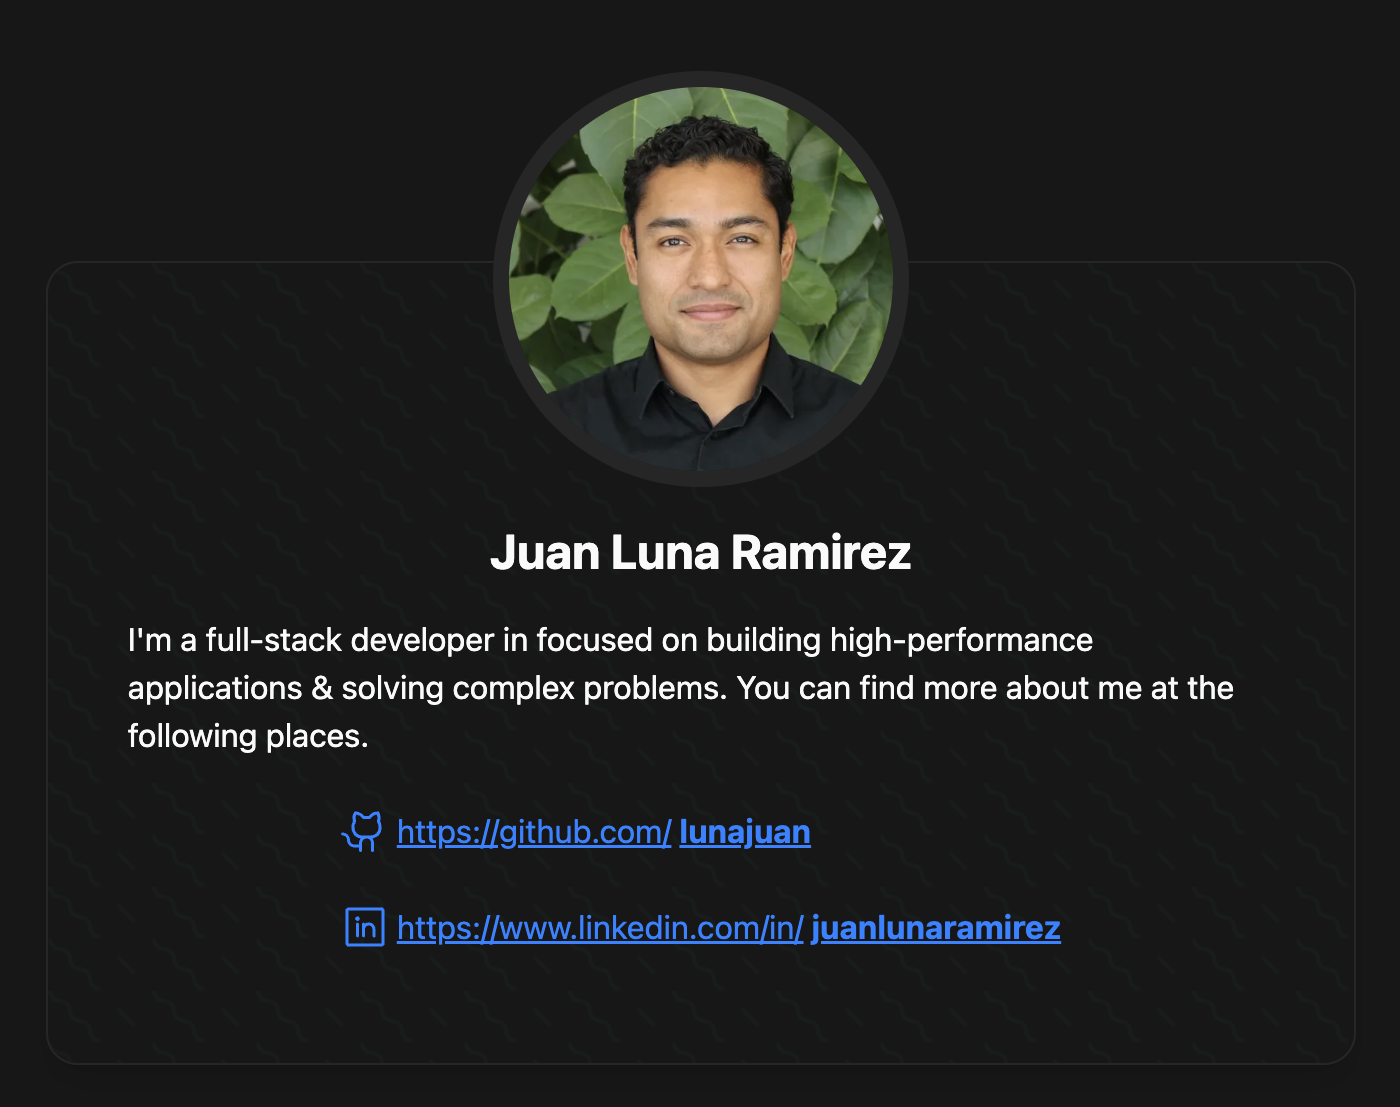
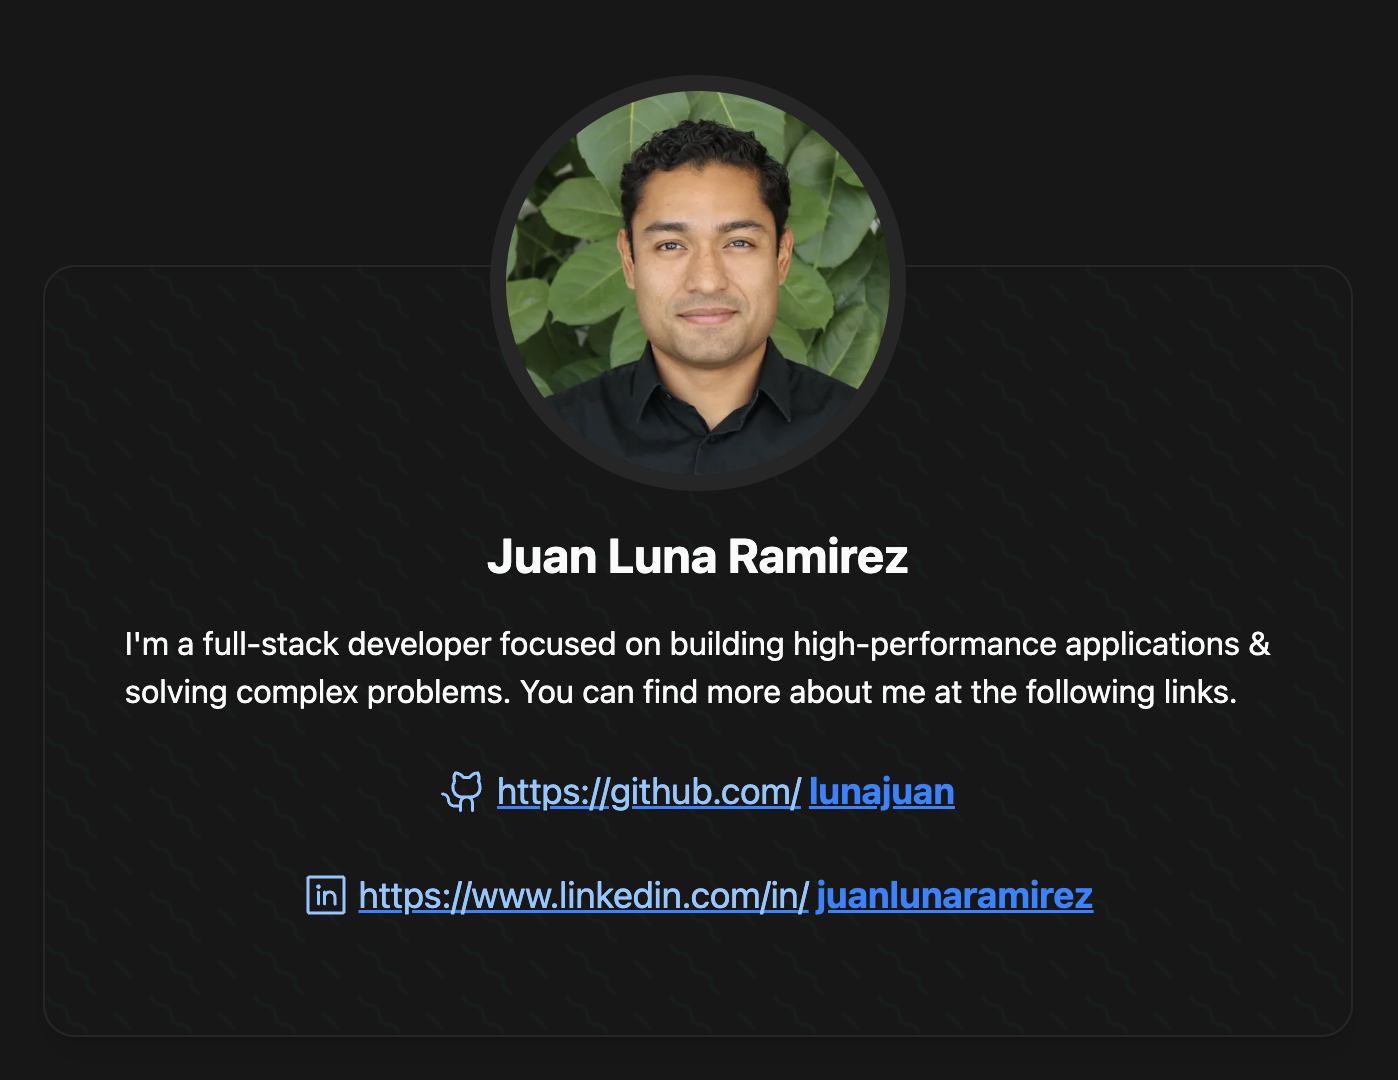
fix(og): fix description text and style theme switcher (#13)
* fix typos

* update image meta

* remove link text on meta description.

* add additional og tags

* style theme switcher

diff --git a/src/components/ThemeSwitch.tsx b/src/components/ThemeSwitch.tsx
@@ -2,6 +2,8 @@ import { useLocalStorage, useMediaQuery } from "usehooks-ts"
 import { type HTMLDivProps } from "../types/html.types"
 import { DARK_MODE_LOCAL_STORAGE_KEY, COLOR_SCHEME_QUERY } from "../constants"
 import { useEffect } from "react"
+import SunDimIcon from "../assets/icons/SunDimIcon"
+import MoonIcon from "../assets/icons/MoonIcon"
 
 type Props = HTMLDivProps
 export default function ThemeSwitch({ ...props }: Props) {
@@ -11,9 +13,18 @@ export default function ThemeSwitch({ ...props }: Props) {
     document.documentElement.classList.toggle("dark", isDarkMode)
   }, [isDarkMode])
 
+  const Icon = isDarkMode ? SunDimIcon : MoonIcon
+  const text = isDarkMode ? "light mode" : "dark mode"
+
   return (
     <div {...props}>
-      <button onClick={toggle} className="block p-4">{isDarkMode ? "Light" : "Dark"}</button>
+      <button
+        onClick={toggle}
+        className="flex p-4 items-center gap-2 justify-center text-neutral-600 dark:text-neutral-400"
+      >
+        <Icon className="w-6 h-6" />
+        <span>{text}</span>
+      </button>
     </div>
   )
 }

diff --git a/src/assets/icons/SunDimIcon.tsx b/src/assets/icons/SunDimIcon.tsx
@@ -1,0 +1,16 @@
+import type { IconProps } from "./icon.types";
+
+export default function SunDimIcon({ className }: IconProps) {
+  return (
+    <svg
+      xmlns="http://www.w3.org/2000/svg"
+      width="1em"
+      height="1em"
+      fill="currentColor"
+      viewBox="0 0 256 256"
+      className={className}
+    >
+      <path d="M120,40V32a8,8,0,0,1,16,0v8a8,8,0,0,1-16,0Zm72,88a64,64,0,1,1-64-64A64.07,64.07,0,0,1,192,128Zm-16,0a48,48,0,1,0-48,48A48.05,48.05,0,0,0,176,128ZM58.34,69.66A8,8,0,0,0,69.66,58.34l-8-8A8,8,0,0,0,50.34,61.66Zm0,116.68-8,8a8,8,0,0,0,11.32,11.32l8-8a8,8,0,0,0-11.32-11.32ZM192,72a8,8,0,0,0,5.66-2.34l8-8a8,8,0,0,0-11.32-11.32l-8,8A8,8,0,0,0,192,72Zm5.66,114.34a8,8,0,0,0-11.32,11.32l8,8a8,8,0,0,0,11.32-11.32ZM40,120H32a8,8,0,0,0,0,16h8a8,8,0,0,0,0-16Zm88,88a8,8,0,0,0-8,8v8a8,8,0,0,0,16,0v-8A8,8,0,0,0,128,208Zm96-88h-8a8,8,0,0,0,0,16h8a8,8,0,0,0,0-16Z"></path>
+    </svg>
+  )
+}

diff --git a/src/assets/icons/MoonIcon.tsx b/src/assets/icons/MoonIcon.tsx
@@ -1,0 +1,16 @@
+import type { IconProps } from "./icon.types";
+
+export default function MoonIcon({ className }: IconProps) {
+  return (
+    <svg
+      xmlns="http://www.w3.org/2000/svg"
+      width="1em"
+      height="1em"
+      fill="currentColor"
+      viewBox="0 0 256 256"
+      className={className}
+    >
+      <path d="M233.54,142.23a8,8,0,0,0-8-2,88.08,88.08,0,0,1-109.8-109.8,8,8,0,0,0-10-10,104.84,104.84,0,0,0-52.91,37A104,104,0,0,0,136,224a103.09,103.09,0,0,0,62.52-20.88,104.84,104.84,0,0,0,37-52.91A8,8,0,0,0,233.54,142.23ZM188.9,190.34A88,88,0,0,1,65.66,67.11a89,89,0,0,1,31.4-26A106,106,0,0,0,96,56,104.11,104.11,0,0,0,200,160a106,106,0,0,0,14.92-1.06A89,89,0,0,1,188.9,190.34Z"></path>
+    </svg>
+  )
+}
